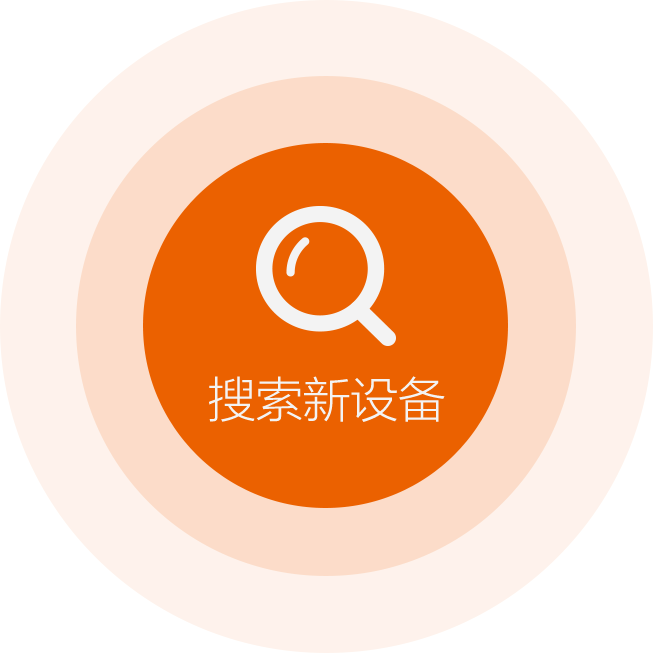
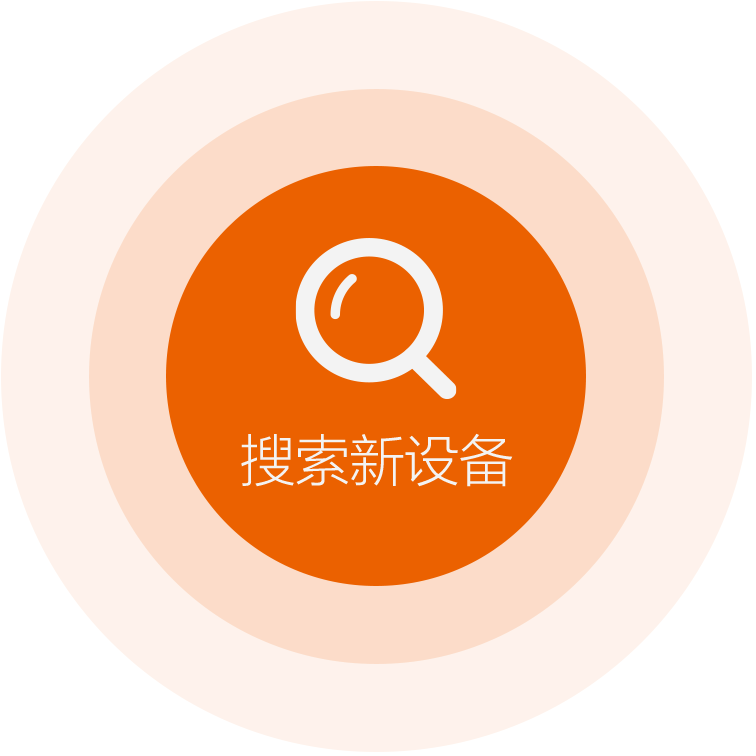
asy

diff --git a/OrangePatient/UI/BlueTooth/DiscoveryDeviceTableViewCell.m b/OrangePatient/UI/BlueTooth/DiscoveryDeviceTableViewCell.m
@@ -1,14 +1,14 @@
 //
-//  ConnectionedDeviceTableViewCell.m
+//  DiscoveryDeviceTableViewCell.m
 //  OrangePatient
 //
-//  Created by singlew on 15/3/17.
+//  Created by singlew on 15/3/18.
 //  Copyright (c) 2015年 Orange. All rights reserved.
 //
 
-#import "ConnectionedDeviceTableViewCell.h"
+#import "DiscoveryDeviceTableViewCell.h"
 
-@implementation ConnectionedDeviceTableViewCell
+@implementation DiscoveryDeviceTableViewCell
 
 -(id) initWithStyle:(UITableViewCellStyle)style reuseIdentifier:(NSString *)reuseIdentifier{
     self = [super initWithStyle:style reuseIdentifier:reuseIdentifier];
@@ -31,43 +31,37 @@
         self.deviceDescription.numberOfLines = 1;
         [self addSubview:self.deviceDescription];
         
-        self.deleteButton = [UIButton buttonWithType:UIButtonTypeCustom];
-        [self.deleteButton setTitle:@"解除绑定" forState:UIControlStateNormal];
-        [self.deleteButton setTitle:@"解除绑定" forState:UIControlStateHighlighted];
-        self.deleteButton.titleLabel.textColor = [UIColor blackColor];
-        [self.deleteButton setTitleColor:[UIColor blackColor] forState:UIControlStateNormal];
-        [self.deleteButton setTitleColor:[UIColor blackColor] forState:UIControlStateHighlighted];
-        [self addSubview:self.deleteButton];
+        self.addDevice = [UIButton buttonWithType:UIButtonTypeCustom];
+        [self.addDevice setImage:[UIImage imageNamed:@""] forState:UIControlStateNormal];
+        [self.addDevice setImage:[UIImage imageNamed:@""] forState:UIControlStateHighlighted];
+        self.addDevice.titleLabel.textColor = [UIColor blackColor];
+        [self.addDevice setTitleColor:[UIColor blackColor] forState:UIControlStateNormal];
+        [self.addDevice setTitleColor:[UIColor blackColor] forState:UIControlStateHighlighted];
+        [self addSubview:self.addDevice];
     }
     return self;
 }
 
 -(void) layoutSubviews{
     [super layoutSubviews];
-    NSDictionary *views = NSDictionaryOfVariableBindings(_deviceImage,_deviceName,_deviceDescription,_deleteButton);
+    NSDictionary *views = NSDictionaryOfVariableBindings(_deviceImage,_deviceName,_deviceDescription,_addDevice);
     [self addConstraints:[NSLayoutConstraint constraintsWithVisualFormat:@"|-0-[_deviceImage(87)]-10-[_deviceName(120)]" options:0 metrics:nil views:views]];
     [self addConstraints:[NSLayoutConstraint constraintsWithVisualFormat:@"V:|-0-[_deviceImage(90)]" options:0 metrics:nil views:views]];
     [self addConstraints:[NSLayoutConstraint constraintsWithVisualFormat:@"[_deviceDescription(120)]" options:0 metrics:nil views:views]];
     [self addConstraints:[NSLayoutConstraint constraintsWithVisualFormat:@"V:|-20-[_deviceName]-15-[_deviceDescription]" options:NSLayoutFormatAlignAllLeft metrics:0 views:views]];
     
-    self.deleteButton.frame = CGRectMake(SCREEN_WIDTH - 80.0f - 10.0f, 20.0f, 80.0f, 40.0f);
+    self.addDevice.frame = CGRectMake(SCREEN_WIDTH - 80.0f - 10.0f, 20.0f, 80.0f, 40.0f);
     
-//    [self addConstraints:[NSLayoutConstraint constraintsWithVisualFormat:@"[_deleteButton(40)]-10-|" options:0 metrics:nil views:views]];
-//    [self addConstraints:[NSLayoutConstraint constraintsWithVisualFormat:@"V:[_deleteButton(40)]-10-|" options:0 metrics:nil views:views]];
+    //    [self addConstraints:[NSLayoutConstraint constraintsWithVisualFormat:@"[_deleteButton(40)]-10-|" options:0 metrics:nil views:views]];
+    //    [self addConstraints:[NSLayoutConstraint constraintsWithVisualFormat:@"V:[_deleteButton(40)]-10-|" options:0 metrics:nil views:views]];
     //        [self addConstraint:[NSLayoutConstraint constraintWithItem:self.deleteButton attribute:NSLayoutAttributeCenterY relatedBy:NSLayoutRelationEqual toItem:self attribute:NSLayoutAttributeCenterY multiplier:1 constant:0]];
     //        [self addConstraint:[NSLayoutConstraint constraintWithItem:self.deleteButton attribute:NSLayoutAttributeCenterX relatedBy:NSLayoutRelationEqual toItem:self attribute:NSLayoutAttributeCenterY multiplier:1 constant:0]];
 }
 
--(void) setModel:(CBPeripheral *)model{
-    if (model != nil) {
-        self.deviceName.text = @"动态血氧仪";
-        self.deviceDescription.text = model.name;
-        self.peripheral = model;
-    }
-}
-
 - (void)setSelected:(BOOL)selected animated:(BOOL)animated {
     [super setSelected:selected animated:animated];
+
+    // Configure the view for the selected state
 }
 
 @end

diff --git a/OrangePatient/General/Classes/Device/MyDeviceViewController.m b/OrangePatient/General/Classes/Device/MyDeviceViewController.m
@@ -12,8 +12,10 @@
 
 @interface MyDeviceViewController ()
 @property (nonatomic,strong) NSMutableArray *uuidArray;
+@property (nonatomic,strong) NSArray *peripheralArray;
 @property (nonatomic,strong) UITableView *deviceTable;
 @property (nonatomic,strong) CBCentralManager *central;
+-(void) searchDevice;
 @end
 
 @implementation MyDeviceViewController
@@ -22,7 +24,7 @@
     [super viewDidLoad];
     
     self.uuidArray = [UIModelCoding deserializeModel:@"coreToothCache.cac"];
-    if (self.uuidArray == nil) {
+    if (self.uuidArray != nil) {
         self.uuidArray = [[NSMutableArray alloc] init];
     }
     
@@ -31,10 +33,11 @@
         [searchButton setImage:[UIImage imageNamed:@"SearchDevice"] forState:UIControlStateNormal];
         [searchButton setImage:[UIImage imageNamed:@"SearchDevice"] forState:UIControlStateHighlighted];
         searchButton.translatesAutoresizingMaskIntoConstraints = NO;
+        [searchButton addTarget:self action:@selector(searchDevice) forControlEvents:UIControlEventTouchUpInside];
         [self.view addSubview:searchButton];
         
         NSDictionary *views = NSDictionaryOfVariableBindings(searchButton);
-        NSDictionary *metrics = @{@"imageEdge":@150.0};
+        NSDictionary *metrics = @{@"imageEdge":@252.0};
         [self.view addConstraints:[NSLayoutConstraint constraintsWithVisualFormat:@"[searchButton(imageEdge)]" options:0 metrics:metrics views:views]];
         [self.view addConstraints:[NSLayoutConstraint constraintsWithVisualFormat:@"V:[searchButton(imageEdge)]" options:0 metrics:metrics views:views]];
         [self.view addConstraint:[NSLayoutConstraint constraintWithItem:searchButton attribute:NSLayoutAttributeCenterY relatedBy:NSLayoutRelationEqual toItem:self.view attribute:NSLayoutAttributeCenterY multiplier:1 constant:0]];
@@ -55,7 +58,8 @@
 -(void) viewDidAppear:(BOOL)animated{
     if ([self.uuidArray count] != 0) {
         self.central = [[CBCentralManager alloc] initWithDelegate:self queue:nil];
-        NSArray *array = [self.central retrievePeripheralsWithIdentifiers:self.uuidArray];
+        self.peripheralArray = [self.central retrievePeripheralsWithIdentifiers:self.uuidArray];
+        [self.deviceTable reloadData];
     }
 }
 
@@ -87,18 +91,26 @@
 }
 
 - (NSInteger)tableView:(UITableView *)tableView numberOfRowsInSection:(NSInteger)section{
-    return 1;
+    return [self.peripheralArray count];
+}
+
+- (CGFloat)tableView:(UITableView *)tableView heightForRowAtIndexPath:(NSIndexPath *)indexPath{
+    return 90.0f;
 }
 
 - (UITableViewCell *)tableView:(UITableView *)tableView cellForRowAtIndexPath:(NSIndexPath *)indexPath{
-    static NSString *connectionedCell = @"connectionedCell";
-    ConnectionedDeviceTableViewCell *cell;
-    if ([self.deviceTable dequeueReusableCellWithIdentifier:connectionedCell] != nil) {
-        cell = (ConnectionedDeviceTableViewCell *)[self.deviceTable dequeueReusableCellWithIdentifier:connectionedCell];
-    }else{
+    static NSString *connectionedCell = @"connectionedCellIdentifier";
+    ConnectionedDeviceTableViewCell *cell = [self.deviceTable dequeueReusableCellWithIdentifier:connectionedCell];
+    if (cell == nil) {
         cell = [[ConnectionedDeviceTableViewCell alloc] initWithStyle:UITableViewCellStyleDefault reuseIdentifier:connectionedCell];
     }
+    [cell setModel:[self.peripheralArray objectAtIndex:indexPath.row]];
     return cell;
+}
+
+-(void) searchDevice{
+    SearchBlueToothViewController *search = [[SearchBlueToothViewController alloc] init];
+    [self.navigationController pushViewController:search animated:YES];
 }
 
 - (void)didReceiveMemoryWarning {

diff --git a/OrangePatient/UI/BlueTooth/SearchBlueToothViewController.m b/OrangePatient/UI/BlueTooth/SearchBlueToothViewController.m
@@ -8,6 +8,7 @@
 
 #import "SearchBlueToothViewController.h"
 #import "UIModelCoding.h"
+#import "UIColor+Base.h"
 
 //服务的UUID
 #define UUIDSTR_ISSC_PROPRIETARY_SERVICE        @"49535343-FE7D-4AE5-8FA9-9FAFD2O5E455"
@@ -43,7 +44,46 @@
     if (self.uuidArray == nil) {
         self.uuidArray = [[NSMutableArray alloc] init];
     }
-    self.central = [[CBCentralManager alloc] initWithDelegate:self queue:nil];
+    
+    self.deviceCount = [[UILabel alloc] init];
+    self.deviceCount.translatesAutoresizingMaskIntoConstraints = NO;
+    self.deviceCount.backgroundColor = [UIColor colorWithHexString:@"#eb6100"];
+    self.deviceCount.textColor = [UIColor whiteColor];
+    self.deviceCount.textAlignment = UITextAlignmentCenter;
+    self.deviceCount.font = [UIFont boldSystemFontOfSize:15.0f];
+    [self.view addSubview:self.deviceCount];
+    
+    self.deviceTableView = [[UITableView alloc] init];
+    self.deviceTableView.translatesAutoresizingMaskIntoConstraints = NO;
+    self.deviceTableView.separatorStyle = UITableViewCellSelectionStyleNone;
+    self.deviceTableView.delegate = self;
+    self.deviceTableView.dataSource = self;
+    [self.view addSubview:self.deviceTableView];
+    
+    NSDictionary *views = NSDictionaryOfVariableBindings(_deviceCount,_deviceTableView);
+    [self.view addConstraints:[NSLayoutConstraint constraintsWithVisualFormat:@"|-0-[_deviceCount]-0-|" options:0 metrics:nil views:views]];
+    [self.view addConstraints:[NSLayoutConstraint constraintsWithVisualFormat:@"|-0-[_deviceTableView]-0-|" options:0 metrics:nil views:views]];
+    [self.view addConstraints:[NSLayoutConstraint constraintsWithVisualFormat:@"V:|-0-[_deviceCount(46)]-[_deviceTableView]-0-|" options:0 metrics:nil views:views]];
+    
+}
+
+
+- (NSInteger)tableView:(UITableView *)tableView numberOfRowsInSection:(NSInteger)section{
+    return 0;
+}
+
+- (CGFloat)tableView:(UITableView *)tableView heightForRowAtIndexPath:(NSIndexPath *)indexPath{
+    return 90.0f;
+}
+
+- (UITableViewCell *)tableView:(UITableView *)tableView cellForRowAtIndexPath:(NSIndexPath *)indexPath{
+//    static NSString *connectionedCell = @"connectionedCellIdentifier";
+//    ConnectionedDeviceTableViewCell *cell = [self.deviceTable dequeueReusableCellWithIdentifier:connectionedCell];
+//    if (cell == nil) {
+//        cell = [[ConnectionedDeviceTableViewCell alloc] initWithStyle:UITableViewCellStyleDefault reuseIdentifier:connectionedCell];
+//    }
+//    [cell setModel:[self.peripheralArray objectAtIndex:indexPath.row]];
+    return nil;
 }
 
 - (void)didReceiveMemoryWarning {
@@ -78,6 +118,10 @@
     }
 }
 
+-(void) viewDidAppear:(BOOL)animated{
+    [super viewDidAppear:animated];
+    self.central = [[CBCentralManager alloc] initWithDelegate:self queue:nil];
+}
 
 // 发现设备
 - (void)centralManager:(CBCentralManager *)central didDiscoverPeripheral:(CBPeripheral *)peripheral advertisementData:(NSDictionary *)advertisementData RSSI:(NSNumber *)RSSI{

diff --git a/OrangePatient/UI/BlueTooth/SearchBlueToothViewController.h b/OrangePatient/UI/BlueTooth/SearchBlueToothViewController.h
@@ -11,6 +11,7 @@
 #import "BlueToothDateData.h"
 #import "BlueToothTimeData.h"
 #import "BlueToothData.h"
+#import "DiscoveryDeviceTableViewCell.h"
 
 typedef enum {
     kGetData,
@@ -18,7 +19,10 @@ typedef enum {
     kNone,
 } Action;
 
-@interface SearchBlueToothViewController : UIViewController<CBCentralManagerDelegate,CBPeripheralDelegate>
+@interface SearchBlueToothViewController : UIViewController<CBCentralManagerDelegate,CBPeripheralDelegate,UITableViewDataSource,UITableViewDelegate>
 @property (nonatomic,strong) CBCentralManager *central;
 @property (nonatomic,strong) CBPeripheral *peripheral;
+
+@property (nonatomic,strong) UILabel *deviceCount;
+@property (nonatomic,strong) UITableView *deviceTableView;
 @end

diff --git a/OrangePatient/UI/BlueTooth/DiscoveryDeviceTableViewCell.h b/OrangePatient/UI/BlueTooth/DiscoveryDeviceTableViewCell.h
@@ -1,0 +1,17 @@
+//
+//  DiscoveryDeviceTableViewCell.h
+//  OrangePatient
+//
+//  Created by singlew on 15/3/18.
+//  Copyright (c) 2015年 Orange. All rights reserved.
+//
+
+#import <UIKit/UIKit.h>
+
+@interface DiscoveryDeviceTableViewCell : UITableViewCell
+@property (nonatomic,strong) UIImageView *bgImage;
+@property (nonatomic,strong) UIImageView *deviceImage;
+@property (nonatomic,strong) UILabel *deviceName;
+@property (nonatomic,strong) UILabel *deviceDescription;
+@property (nonatomic,strong) UIButton *addDevice;
+@end

diff --git a/OrangePatient/General/Classes/Device/ConnectionedDeviceTableViewCell.h b/OrangePatient/General/Classes/Device/ConnectionedDeviceTableViewCell.h
@@ -7,11 +7,13 @@
 //
 
 #import <UIKit/UIKit.h>
+#import <CoreBluetooth/CoreBluetooth.h>
 
 @interface ConnectionedDeviceTableViewCell : UITableViewCell
 @property (nonatomic,strong) UIImageView *deviceImage;
 @property (nonatomic,strong) UILabel *deviceName;
 @property (nonatomic,strong) UILabel *deviceDescription;
 @property (nonatomic,strong) UIButton *deleteButton;
--(void) setModel : (id) model;
+@property (nonatomic,strong) CBPeripheral *peripheral;
+-(void) setModel : (CBPeripheral *) model;
 @end

diff --git a/OrangePatient/General/Classes/Device/MyDeviceViewController.h b/OrangePatient/General/Classes/Device/MyDeviceViewController.h
@@ -9,6 +9,7 @@
 #import <UIKit/UIKit.h>
 #import "OrangeBaseViewController.h"
 #import <CoreBluetooth/CoreBluetooth.h>
+#import "SearchBlueToothViewController.h"
 
 @interface MyDeviceViewController : OrangeBaseViewController<CBCentralManagerDelegate,UITableViewDataSource,UITableViewDelegate>
 
